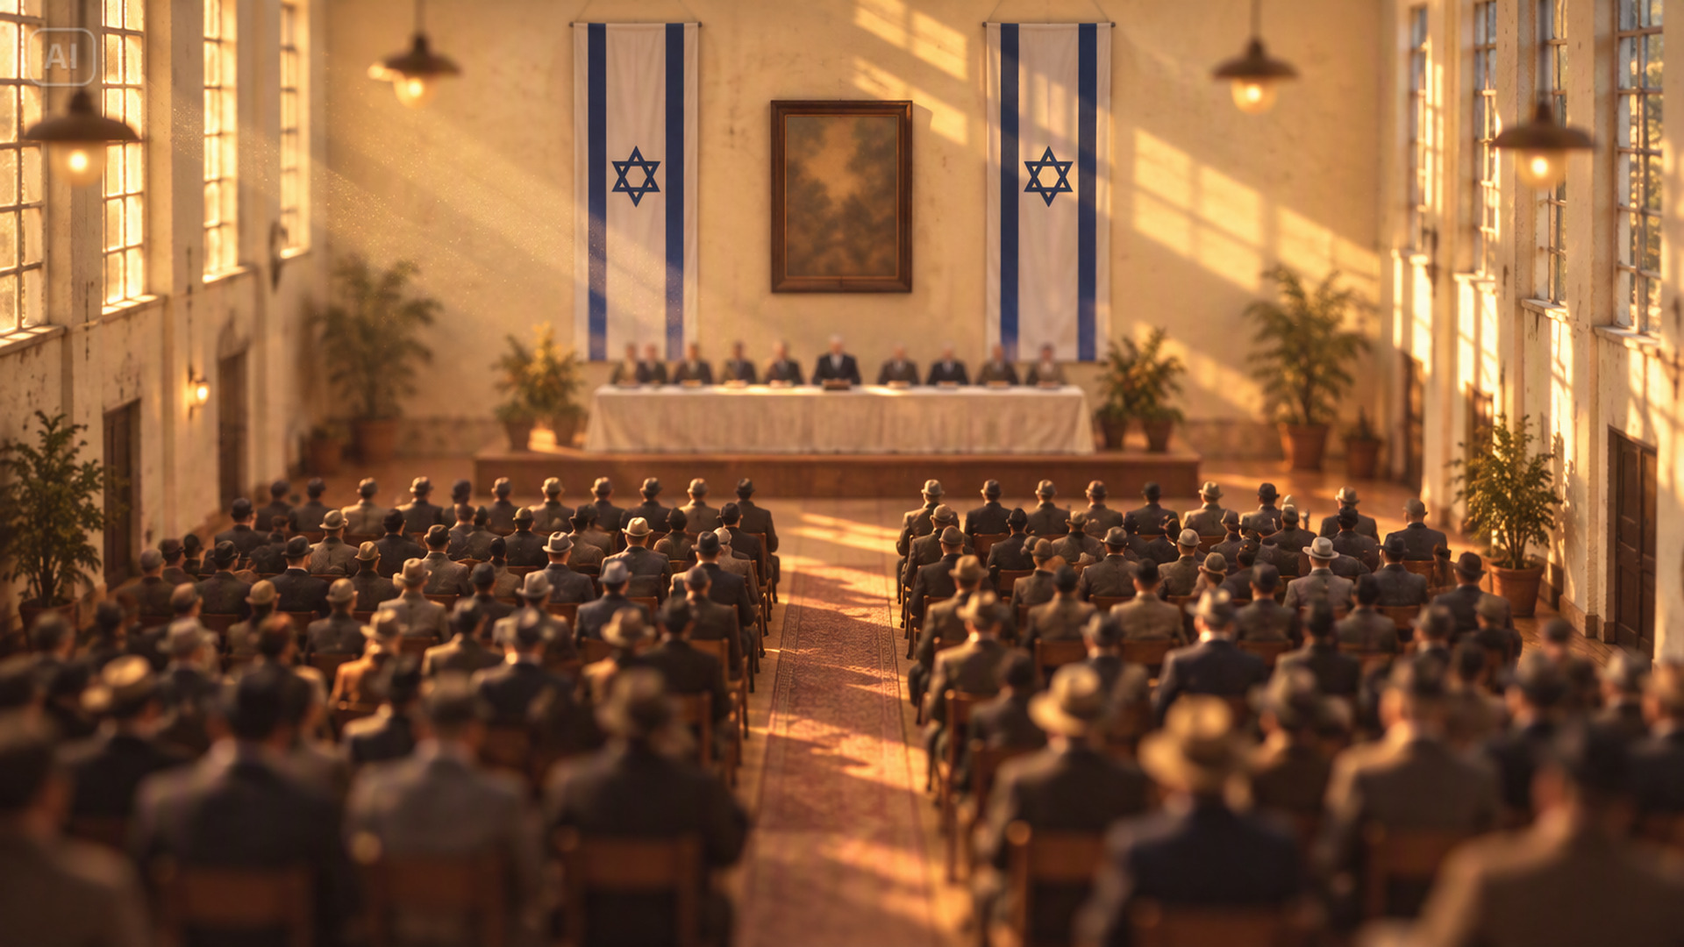
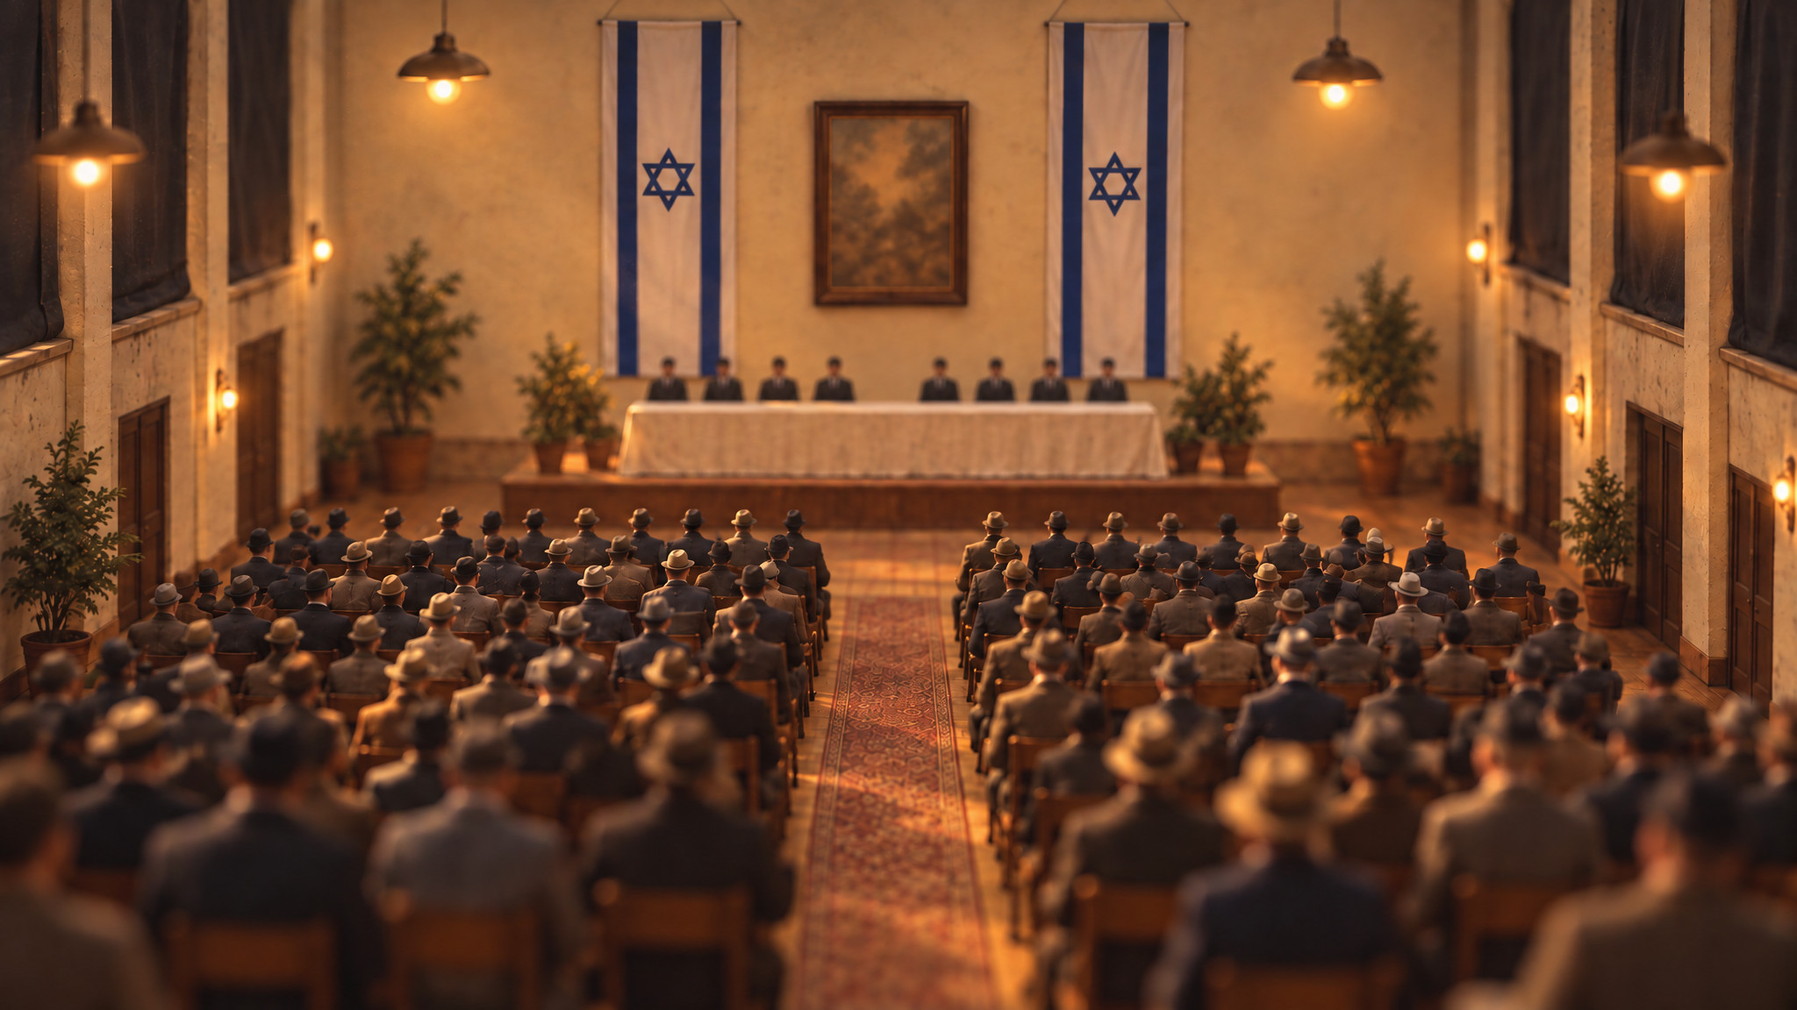
ui: the start-screen painting with blacked-out windows, at native 2K (fixes #268)
On 14 May 1948 some of the Tel Aviv Museum hall's windows were darkened for
fear of an air raid (Ynet, 6 May 2022, cited by en.wikipedia's Independence
Hall; checked 2026-10-12), so the sunbeams in the #255 painting were wrong.
The new painting is a native 2048x1152 render on ElevenLabs GPT Image 2.5
(2 takes, 1,278 credits): the same symmetric view down the aisle, two flags,
the white table, windows covered with blackout cloth, the hall lamplit. The
table figures are an even row of tiny silhouettes with no one at the centre;
the frame between the flags stays an abstract blur.

With no corner badge to keep in view, the cover crop is anchored at the top
centre, so a 16:10 window crops both sides alike. StartScreenTests checks
the anchoring and that the painting is native, 16:9 and at least 1080p.
ASSETS.yaml, the AI disclosure, LICENSING, THIRD-PARTY-NOTICES and D-D are
updated; the painting stays under D-D's open sign-off.

diff --git a/unity/Assets/Tests/EditMode/StartScreenTests.cs b/unity/Assets/Tests/EditMode/StartScreenTests.cs
@@ -327,11 +327,26 @@ public class StartScreenTests
 
     // --- Layout ------------------------------------------------------------------------------------------------------
 
+    /// <summary>The painting is a native render of at least 1920x1080 at 16:9 (StartScreenPresenter.ArtAspect), imported at
+    /// its own size, so a 1080p window never shows an upscale (#268).</summary>
+    [Test]
+    public void ThePaintingIsNativeAtLeast1080p()
+    {
+        const string path = "Assets/UI/StartScreen/declaration-hall.jpg";
+        var importer = (TextureImporter)AssetImporter.GetAtPath(path);
+        importer.GetSourceTextureWidthAndHeight(out var w, out var h);
+        Assert.GreaterOrEqual(w, 1920, "source width");
+        Assert.GreaterOrEqual(h, 1080, "source height");
+        Assert.AreEqual(StartScreenPresenter.ArtAspect, (float)w / h, 0.002f, "16:9");
+        var tex = AssetDatabase.LoadAssetAtPath<Texture2D>(path);
+        Assert.AreEqual((w, h), (tex.width, tex.height), "imported at its own size (maxTextureSize does not shrink it)");
+    }
+
     /// <summary>At each window size the owner named (a 1080p and a 768p screen, a small 16:10 window, a phone held upright):
     /// the screen covers the window; the painting keeps its 16:9 (a full-width band below 16:9, so nothing is cropped) and
-    /// starts at the window's top (the AI badge in its top-left corner shows); the panel, its lines and both buttons are
-    /// inside the window and the panel; no line overlaps another or is squeezed below its font size; the panel leaves the
-    /// painting's upper half (the flags and the table) clear.</summary>
+    /// starts at the window's top, anchored at its top centre so a crop takes both sides alike; the panel, its lines and
+    /// both buttons are inside the window and the panel; no line overlaps another or is squeezed below its font size; the
+    /// panel leaves the painting's upper half (the flags and the table) clear.</summary>
     [UnityTest]
     public IEnumerator ItFitsEveryWindowSize()
     {
@@ -381,6 +396,8 @@ public class StartScreenTests
                 {
                     Assert.AreEqual(window.yMin, art.yMin, 0.5f, $"{at}: the painting starts at the top");
                     Assert.AreEqual(window.height, art.height, 0.5f, $"{at}: the painting fills the window");
+                    Assert.AreEqual(BackgroundPositionKeyword.Center, root.Q("start-art").resolvedStyle.backgroundPositionX.keyword, $"{at}: a crop takes both sides alike (the aisle stays in the middle)");
+                    Assert.AreEqual(BackgroundPositionKeyword.Top, root.Q("start-art").resolvedStyle.backgroundPositionY.keyword, $"{at}: a crop keeps the top (the flags and the table)");
                     // Cover, anchored top-left: the painting's upper half (the flags and the table) stays clear of the panel.
                     var painted = Mathf.Max(window.height, window.width / StartScreenPresenter.ArtAspect);
                     Assert.GreaterOrEqual(panel.yMin, window.yMin + painted * 0.5f - 0.5f, $"{at}: the panel {panel} covers the painting's upper half");

diff --git a/unity/Assets/Scripts/UI/StartScreenPresenter.cs b/unity/Assets/Scripts/UI/StartScreenPresenter.cs
@@ -16,15 +16,15 @@ namespace Statecraft.Game.UI
     /// with a save it goes through NewGamePresenter's two presses, the same flow as the top bar's New Game, so one stray
     /// press never wipes the save (#175, B6). Continue and Escape withdraw an open request.
     /// While it shows, the root has OpenClass (Statecraft.uss hides the HUD under it, so Tab reaches only these buttons)
-    /// and <c>shownChanged</c> is told, so GameRoot can stop the camera keys. The painting's AI badge (its top-left corner)
-    /// shows at every window shape (Fit).</summary>
+    /// and <c>shownChanged</c> is told, so GameRoot can stop the camera keys. The panel's source line says the painting is
+    /// AI-generated.</summary>
     public sealed class StartScreenPresenter : IDisposable
     {
         /// <summary>On the "root" element while the start screen shows.</summary>
         public const string OpenClass = "start-open";
         /// <summary>On the start screen when the painting is a full-width band with the panel under it (Fit).</summary>
         public const string BandClass = "start-band";
-        /// <summary>The painting's width over its height (Assets/UI/StartScreen/declaration-hall.jpg, 1920x1080).</summary>
+        /// <summary>The painting's width over its height (Assets/UI/StartScreen/declaration-hall.jpg, 2048x1152).</summary>
         public const float ArtAspect = 16f / 9f;
         /// <summary>The URL flag (WebGL) or command-line flag (desktop, "-nostart") that skips the screen by hand.</summary>
         public const string NoStartFlag = "nostart";
@@ -141,7 +141,7 @@ namespace Statecraft.Game.UI
         /// bottom) with the panel at the foot over the audience. In a narrower window that is tall enough for the painting's
         /// full-width 16:9 band and the panel under it (a phone held upright, a square window), the band and the panel are
         /// stacked and centred together (BandClass), so nothing of the painting is cropped. Otherwise (16:10, 4:3) it fills
-        /// the window anchored at its top-left corner, so only its right-hand side is cropped and the AI badge stays.</summary>
+        /// the window anchored at its top centre, so both sides are cropped alike and the aisle stays in the middle.</summary>
         void Fit()
         {
             var size = screen.layout.size;

diff --git a/docs/oss/DECISIONS.md b/docs/oss/DECISIONS.md
@@ -17,7 +17,7 @@ are already public. If a check fails, the file is removed from the tip with the 
 - [x] D5 The ElevenLabs Terms of Service for the account's plan on 2026-10-08/09, and the image models' output terms, allow public redistribution of the AI promo images and the hero. Owner verifies. Decided (owner-delegated check, 2026-10-10): allowed. The images came through ElevenLabs on its paid Pro plan (account tier `pro`; about 383k credits were already in use on 2026-10-08, beyond any free allowance), and its Terms of Service give the user all rights in Output (s. 4(c)(ii)); the free-plan non-commercial limit (s. 1(c)(i)) does not apply. OpenAI's Terms of Use assign Output to the user; Google's Gemini API terms do not claim ownership of generated content.
 - [x] D6 The data.gov.il terms allow redistribution of the IMS station normals (`content/map/precip_stations.json`). Owner verifies. Decided (owner-delegated check, 2026-10-10): allowed. The data.gov.il licence (https://data.gov.il/he/terms-of-use, updated 30/08/2025) grants a worldwide, royalty-free, perpetual licence to copy, distribute, publish and make derivatives, commercially or not, on condition of crediting the source; NOTICE and the file header credit IMS, dataset 481 and the URL.
 - [x] D7 Security and conduct contact. Decided (2026-10-11): GitHub private reporting for both security and conduct (conduct reports start the title with "Conduct:"); the profile has no public email. The owner may later add a dedicated contact, and then updates SECURITY.md, CODE_OF_CONDUCT.md and the issue-form config together.
-- [ ] D-D The Dreamina terms allow the start screen painting (`unity/Assets/UI/StartScreen/declaration-hall.jpg`, in every build) and its option images (`promo/start-screen/*.png`) to be shipped and marked CC0 (`ASSETS.yaml`, issue #247, PR #255). Check on 2026-10-12 (factual, not legal advice), of the public pages only, with no login. Source: Dreamina Terms of Service, "Last updated: January 22, 2026", https://dreamina.capcut.com/clause/dreamina-terms-of-service (the site footer's link, https://www.capcut.com/clause/dreamina-terms-of-service?region=US&lang=en, serves the same text; US users fall under separate Dreamina US terms, which do not apply to the owner). (1) Ownership: s. 8 gives the user the Inputs and Outputs "as between you and us" if the user complies with the terms, and it gives ByteDance and other users a perpetual, royalty-free licence to use them. No plan tier is mentioned, and the CapCut Trust Center (https://www.capcut.com/trust/legal) says "All user-generated content you create on our platform belongs to you." (2) Commercial use: **restricted.** S. 1 reads "Our Services are generally provided for private, non-commercial use." S. 7 bars using the Services "or any content therein for any commercial or unauthorized purposes". S. 2 allows commercial use only "if permitted" under additional terms, and no such terms are public. The pricing page (https://dreamina.capcut.com/ai-tool/pricing) renders by script, so no plan's rights could be read, and the Standard plan's rights are unverified. `ASSETS.yaml` records that no free credits were left for an upscale, so which plan made the image is itself unconfirmed. Since the user owns the Output, marking it CC0 is a licence of the user's own rights, and the terms do not forbid redistribution of Outputs. (3) Watermark or attribution: the terms ask for none for Outputs; s. 6 forbids removing proprietary notices or marks the Services display, and the kept "AI" badge is consistent with that. (4) Real places and events: no specific rule; the general bans apply (publicity and privacy rights, defamation, false information meant to harm others). The painting shows no identifiable person. **Recommendation:** fine for the free, non-commercial game and the CC0 marking. Any paid release (Steam, or a paid itch page) needs written commercial-use rights for the plan used, or a replacement image from a generator whose terms allow commercial use (as in D5). Owner approval relayed by the coordinator on 2026-10-12 in the session ("I approve"). It is recorded here, but the line stays open until the owner confirms the scope; the owner can tick it by replying: "D-D decided: Dreamina output is approved for free, non-commercial distribution and CC0 marking; before any paid release I will confirm commercial rights for the plan used or replace the image."
+- [ ] D-D The Dreamina terms allow the start screen painting (`unity/Assets/UI/StartScreen/declaration-hall.jpg`, in every build) and its option images (`promo/start-screen/*.png`) to be shipped and marked CC0 (`ASSETS.yaml`, issue #247, PR #255). Check on 2026-10-12 (factual, not legal advice), of the public pages only, with no login. Source: Dreamina Terms of Service, "Last updated: January 22, 2026", https://dreamina.capcut.com/clause/dreamina-terms-of-service (the site footer's link, https://www.capcut.com/clause/dreamina-terms-of-service?region=US&lang=en, serves the same text; US users fall under separate Dreamina US terms, which do not apply to the owner). (1) Ownership: s. 8 gives the user the Inputs and Outputs "as between you and us" if the user complies with the terms, and it gives ByteDance and other users a perpetual, royalty-free licence to use them. No plan tier is mentioned, and the CapCut Trust Center (https://www.capcut.com/trust/legal) says "All user-generated content you create on our platform belongs to you." (2) Commercial use: **restricted.** S. 1 reads "Our Services are generally provided for private, non-commercial use." S. 7 bars using the Services "or any content therein for any commercial or unauthorized purposes". S. 2 allows commercial use only "if permitted" under additional terms, and no such terms are public. The pricing page (https://dreamina.capcut.com/ai-tool/pricing) renders by script, so no plan's rights could be read, and the Standard plan's rights are unverified. `ASSETS.yaml` records that no free credits were left for an upscale, so which plan made the image is itself unconfirmed. Since the user owns the Output, marking it CC0 is a licence of the user's own rights, and the terms do not forbid redistribution of Outputs. (3) Watermark or attribution: the terms ask for none for Outputs; s. 6 forbids removing proprietary notices or marks the Services display, and the kept "AI" badge is consistent with that. (4) Real places and events: no specific rule; the general bans apply (publicity and privacy rights, defamation, false information meant to harm others). The painting shows no identifiable person. **Recommendation:** fine for the free, non-commercial game and the CC0 marking. Any paid release (Steam, or a paid itch page) needs written commercial-use rights for the plan used, or a replacement image from a generator whose terms allow commercial use (as in D5). Owner approval relayed by the coordinator on 2026-10-12 in the session ("I approve"). It is recorded here, but the line stays open until the owner confirms the scope; the owner can tick it by replying: "D-D decided: Dreamina output is approved for free, non-commercial distribution and CC0 marking; before any paid release I will confirm commercial rights for the plan used or replace the image." Update 2026-10-12 (#268): the start screen painting was regenerated with blacked-out windows on the ElevenLabs Image API (Pro plan, covered by D5), at native 2048x1152. Its composition reference was the Dreamina painting it replaces, so it is recorded under this same open sign-off until the owner decides; the option images stay Dreamina outputs.
 - [ ] D8 Name clearance for "Statecraft: Israel" (USPTO, EUIPO, Steam). Owner checks. Search on 2026-10-10 (factual, not legal advice): USPTO word mark STATECRAFT is live in class 9 (97497997, registered, Endstate Authentic LLC: downloadable multimedia incl. for the video game industry), pending in classes 9/41 (99035932, Metis Endeavor Advisory: podcasts), and registered in classes 35/45 (87598607, Statecraft PLLC); Steam already lists two political strategy games, "Statecraft" (2025, app 3944850) and "Statecraft: Corrupted Democracy" (2026, app 2838620). EUIPO/TMview not yet searched. Verdict: caution; needs the owner's call (keep, or get advice before any commercial release). Decided:
 - [x] D9 Unity edit-mode tests stay out of CI. Recommended: yes, local gate with pasted evidence. Decided (owner, 2026-10-10): yes, as recommended.
 - [x] D10 I know that my personal email (commit d42bd6b, `promo/fetch_portraits.py`) and the internal plans, specs and research notes in history are public and cannot be removed (owner ruling: no history rewriting); key rotation is the only remedy for a secret. Decided (owner, 2026-10-10): acknowledged.

diff --git a/LICENSING.md b/LICENSING.md
@@ -8,7 +8,7 @@ Different parts of this repository are under different licences. Where a file is
 | Game content (text and data) | `content/` (events, people, offices, model, rules, map YAML/JSON), except the third-party map data below | [CC BY-SA 4.0](LICENSES/CC-BY-SA-4.0.txt), credit "Statecraft: Israel contributors". The text paraphrases its cited sources, many from Wikipedia (CC BY-SA), so share-alike applies; each entry lists its sources |
 | Original docs, art and UI assets | `docs/`, the root `*.md` files (except `LICENSE`), `ASSETS.yaml`, `ASSETS.portraits.yaml`, `promo/shots.json`, `promo/CREDITS.md`, `tools/README.md`, `reports/` (our own text), `research_notes/` (our own text), `unity/Assets/UI/*.uxml`, `*.uss`, `strings.en.yaml`, `unity/Assets/Materials/`, `unity/Assets/Resources/Units/` (materials), `unity/Assets/Shaders/`, `unity/Assets/UI/*.asset`, `unity/Assets/WebGLTemplates/Statecraft/favicon.ico`, `unity/Assets/Resources/EventImageCatalog.asset` (the event-photo catalog: alt texts, credits and flags; the pictures it points to are under their own licences below), `promo/ref/geo-reference.png` | [CC BY 4.0](LICENSES/CC-BY-4.0.txt), credit "Statecraft: Israel contributors" |
 | Unity template-derived files | `unity/Assets/Settings/` (URP assets, renderers, volume profiles), `spikes/m0/unity/Assets/Settings/`, `spikes/m0/unity/Assets/UI Toolkit/UnityThemes/`, and any Shader Graph generated from a Unity template (for example `unity/Assets/Shaders/StatecraftTerrain.shadergraph`, from "Terrain Simple") | Created from Unity's project or graph templates and edited; under the [Unity Companion License](https://unity.com/legal/licenses/unity-companion-license) (use with Unity), not MIT |
-| AI-generated images | `promo/final/01`–`08`, `promo/ref/*-src.jpg`, `docs/images/hero-concept-1936.jpg`, `promo/start-screen/*.png`, `unity/Assets/UI/StartScreen/declaration-hall.jpg` | Marked [CC0 1.0](LICENSES/CC0-1.0.txt). No rights are claimed. Purely AI-generated output may not be copyrightable. Made with the ElevenLabs Image API (see `promo/CREDITS.md`), except the start screen's painting and its options, made with Dreamina (`ASSETS.yaml`). |
+| AI-generated images | `promo/final/01`–`08`, `promo/ref/*-src.jpg`, `docs/images/hero-concept-1936.jpg`, `promo/start-screen/*.png`, `unity/Assets/UI/StartScreen/declaration-hall.jpg` | Marked [CC0 1.0](LICENSES/CC0-1.0.txt). No rights are claimed. Purely AI-generated output may not be copyrightable. Made with the ElevenLabs Image API (see `promo/CREDITS.md`), except the start screen's option images, made with Dreamina; the start screen's painting was made on ElevenLabs from a Dreamina option (`ASSETS.yaml`). |
 | Quoted public-domain text | `docs/sources/declaration-1948/` | The Declaration of the Establishment of the State of Israel (1948): the Hebrew of the Official Gazette and the English translation. Public domain; sources in each file and in `ASSETS.yaml`. |
 | In-engine captures | `promo/final/09`, `10`, `docs/images/build-*.jpg`, `docs/images/social-preview.jpg`, `spikes/m0/evidence/*.jpg`, `spikes/m0/evidence/*.txt` (logs) | CC BY 4.0. They show the Copernicus-derived terrain; see below. |
 | Portraits | `unity/Assets/UI/Portraits/`, `promo/ref/people/`, `promo/ref/*-sheet.jpg` | Public-domain photographs from Wikimedia Commons, plus one CC0 file (Moshe Dayan, 1962). Per-file sources are in `content/people.yaml` and `promo/CREDITS.md`. |

diff --git a/docs/ai-disclosure.md b/docs/ai-disclosure.md
@@ -14,5 +14,5 @@ This is not a licence clearance or a completed store content survey. owner-verif
 | promo/final/0[1-8]-*.png | ASSETS.yaml | ElevenLabs Image API /v1/flows/image (GPT Image 2.5, Nano Banana Pro), prompts in promo/shots.json, generated 2026-10-08/09 by promo/gen.py; text fixes by promo/patch.py | owner-verify |
 | promo/ref/*-src.jpg | ASSETS.yaml | Earlier promo/gen.py outputs used as edit inputs for the *_fix shots in promo/shots.json (commit d42bd6b) | owner-verify |
 | promo/start-screen/declaration-hall-option-*.png | ASSETS.yaml | Dreamina (dreamina.capcut.com), model GPT Image 2.5, 2026-10-12, 1536x864 as downloaded, with promo/final/03-gameplay-1936.png as the style reference; prompts in promo/start-screen/prompt-b.txt and -c.txt | owner-verify |
-| unity/Assets/UI/StartScreen/declaration-hall.jpg | ASSETS.yaml | Dreamina (dreamina.capcut.com), model GPT Image 2.5, 2026-10-12, with promo/final/03-gameplay-1936.png as the style reference; the start screen's painting. Option C of promo/start-screen (prompt in promo/start-screen/prompt-c.txt), resized from 1536x864 to 1920x1080 (Lanczos) and saved as JPEG; the Dreamina AI badge is kept | owner-verify |
+| unity/Assets/UI/StartScreen/declaration-hall.jpg | ASSETS.yaml | ElevenLabs Image API (Pro plan, decision D5), model GPT Image 2.5 Sunburst (gpt-image-2.5-sunburst), 2K, quality high, 2026-10-12 (#268); the start screen's painting, native 2048x1152, saved as JPEG (quality 90), no upscale. Take 1: prompt promo/start-screen/prompt-d.txt, with the previous painting (this file as merged in #255: Dreamina option C, resized to 1920x1080) as the composition reference and promo/final/03-gameplay-1936.png as the style reference. Take 2 (used): prompt promo/start-screen/prompt-d-edit.txt, an edit of take 1 that changes only the row of figures at the table. The previous painting (Dreamina, #255) showed sunbeams through the windows | owner-verify |
 | unity/Assets/WebGLTemplates/Statecraft/favicon.ico | ASSETS.yaml | Original geometric drawing for the WebGL page's tab icon (issue #47): a gold hexagon with a cream serif I on navy, in the loading page's colours; 16, 32 and 48 px; made 2026-10-11 for PR #169 | verified |

diff --git a/THIRD-PARTY-NOTICES.md b/THIRD-PARTY-NOTICES.md
@@ -20,7 +20,7 @@ required attribution texts are in [`NOTICE`](NOTICE).
 | EB Garamond | `unity/Assets/UI/Fonts/` | SIL Open Font License 1.1 | Keep `OFL.txt` with the fonts; do not sell the fonts on their own |
 | Frank Ruhl Libre | `unity/Assets/UI/Fonts/FrankRuhlLibre/` | SIL Open Font License 1.1 | Keep `OFL.txt` with the fonts; do not sell the fonts on their own |
 | Unity template-derived files | `unity/Assets/Settings/`, `spikes/m0/unity/Assets/Settings/`, `spikes/m0/unity/Assets/UI Toolkit/UnityThemes/`, and Shader Graphs generated from a Unity template (`unity/Assets/Shaders/StatecraftTerrain.shadergraph`) | Unity Companion License | Use with Unity; see `LICENSING.md` |
-| AI-generated concept art | `promo/final/01`–`08`, `promo/ref/*-src.jpg`, `docs/images/hero-concept-1936.jpg`, `promo/start-screen/*.png`, `unity/Assets/UI/StartScreen/declaration-hall.jpg` (in every build) | CC0 / no rights claimed (`LICENSING.md`); generator terms under owner review (D5) | Disclose as AI-generated (Steam and itch.io require it) |
+| AI-generated concept art | `promo/final/01`–`08`, `promo/ref/*-src.jpg`, `docs/images/hero-concept-1936.jpg`, `promo/start-screen/*.png`, `unity/Assets/UI/StartScreen/declaration-hall.jpg` (in every build) | CC0 / no rights claimed (`LICENSING.md`); generator terms under owner review (D5; D-D for the start screen's painting and options) | Disclose as AI-generated (Steam and itch.io require it) |
 
 Code dependencies are fetched at build or run time under their own licences and are not vendored: NuGet packages in
 `sim/**/*.csproj` (YamlDotNet MIT; test-only: xUnit Apache-2.0, Microsoft.NET.Test.Sdk MIT, xunit.runner.visualstudio

diff --git a/CHANGELOG.md b/CHANGELOG.md
@@ -223,6 +223,9 @@ adds a line under **Unreleased**; CI's `Changelog` job checks this (see `CONTRIB
   It decodes to the same bytes, so the terrain is unchanged (#44).
 
 ### Fixed
+- The start screen's painting no longer shows sunbeams: on 14 May 1948 the hall's windows were darkened for fear of an
+  air raid, so the new painting shows them blacked out and the hall lamplit. It is a native 2048x1152 render, no longer
+  a 1536x864 upscale, and a window narrower than 16:9 now crops both sides of it alike (fixes #268).
 - The Unity idle test `PromoScreensTests.AnOpenScreenIsStillWhenIdle` no longer fails now and then (#242). It was not a
   font atlas and not a recurring layout. A batch-mode editor runs few frames, and now and then it tells
   `UIDocument` late that the test's GameObject exists. `UIDocument` then re-adds its root and the whole screen lays out
